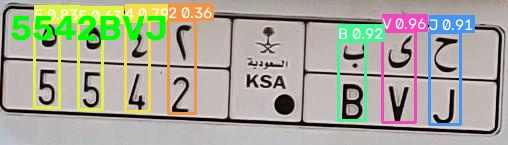
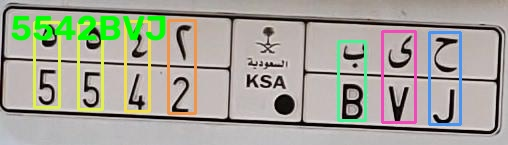
add readme

Changed region(s): [[0.0591, 0.0, 0.4429, 0.1931], [0.6496, 0.0828, 0.9449, 0.3034]]

diff --git a/detector/cli.py b/detector/cli.py
@@ -1,19 +1,16 @@
-"""CLI-точка входа: python -m detector.cli --image path.jpg"""
+"""CLI-точка входа: python plates_detect.py --image path.jpg"""
 import argparse
 import sys
 from pathlib import Path
+from typing import Optional
 
 from .config import DetectorConfig
-from .detector import Detector, DetectorError
+from .detector import Detector
 from .visualize import draw
 
-IMG_EXTS = {".jpg", ".jpeg", ".png", ".bmp", ".webp"}
 
-
-def _resolve_config(explicit: Path | None, default_name: str) -> Path:
+def _resolve_config(explicit: Optional[Path], default_name: str) -> Path:
     if explicit:
-        if not explicit.is_file():
-            raise FileNotFoundError(f"конфиг не найден: {explicit}")
         return explicit
     candidates = [Path.cwd() / default_name, Path(__file__).resolve().parent.parent / default_name]
     for c in candidates:
@@ -22,71 +19,56 @@ def _resolve_config(explicit: Path | None, default_name: str) -> Path:
     raise FileNotFoundError(f"конфиг не найден: {default_name}")
 
 
-def main(argv: list[str] | None = None) -> int:
-    """Возвращает 0 при успехе, >0 при ошибках. Код = число неудачных файлов."""
+def main(argv: Optional[list[str]] = None):
     p = argparse.ArgumentParser(description="CLI-детектор номерных знаков (YOLOv8 ONNX)")
     p.add_argument("--image", type=Path, help="путь к изображению")
     p.add_argument("--dir", type=Path, help="папка с изображениями (батч)")
     p.add_argument("--config", type=Path, default=None, help="путь к config.yaml")
     p.add_argument("--no-show", action="store_true", help="не открывать matplotlib окно")
+    p.add_argument("--quiet", action="store_true", help="только signature, без списка боксов")
     args = p.parse_args(argv)
 
     if not args.image and not args.dir:
         p.error("укажите --image или --dir")
 
-    try:
-        config_path = _resolve_config(args.config, "config.yaml")
-        cfg = DetectorConfig.from_yaml(config_path)
-        if args.no_show:
-            cfg.show = False
-        detector = Detector(cfg)
-    except (FileNotFoundError, ValueError, DetectorError) as e:
-        print(f"[FATAL] {e}", file=sys.stderr)
-        return 2
+    config_path = _resolve_config(args.config, "config.yaml")
+    cfg = DetectorConfig.from_yaml(config_path)
+    if args.no_show:
+        cfg.show = False
+    if args.quiet:
+        cfg.verbose = False
 
-    print(f"модель: {cfg.model}  классов: {len(detector.names)}  imgsz={cfg.imgsz}")
-    print(f"conf={cfg.conf_threshold}  iou={cfg.iou_threshold}  device={cfg.device}")
+    detector = Detector(cfg)
+
+    # Краткий вывод настроек (только если не quiet)
+    if cfg.verbose:
+        print(f"модель: {cfg.model}  классов: {len(detector.names)}  imgsz={cfg.imgsz}")
+        print(f"conf={cfg.conf_threshold}  iou={cfg.iou_threshold}  device={cfg.device}")
 
     images: list[Path] = []
     if args.image:
-        if not args.image.is_file():
-            print(f"[FATAL] файл не найден: {args.image}", file=sys.stderr)
-            return 2
         images = [args.image]
     elif args.dir:
-        if not args.dir.is_dir():
-            print(f"[FATAL] папка не найдена: {args.dir}", file=sys.stderr)
-            return 2
-        images = sorted(p for p in args.dir.iterdir() if p.suffix.lower() in IMG_EXTS)
-        if not images:
-            print(f"[WARN] в {args.dir} нет изображений ({', '.join(sorted(IMG_EXTS))})", file=sys.stderr)
-            return 0
+        images = sorted(p for p in args.dir.iterdir() if p.suffix.lower() in {".jpg", ".jpeg", ".png"})
 
-    errors = 0
     for img in images:
         try:
             result = detector.predict(img)
-        except DetectorError as e:
+        except Exception as e:
             print(f"[ERROR] {img.name}: {e}", file=sys.stderr)
-            errors += 1
             continue
 
-        status = f"signature='{result.signature}'" if result.signature else "(no detection)"
-        print(f"\n[{img.name}] {status}  boxes={len(result.boxes)}")
-        for (x1, y1, x2, y2), label, score in zip(result.boxes, result.labels, result.scores):
-            print(f"  {detector.names[label]:>2}  {score:.3f}  [{x1:.0f},{y1:.0f},{x2:.0f},{y2:.0f}]")
+        # Основной вывод: signature всегда
+        print(f"\n[{img.name}] signature='{result.signature}'  boxes={len(result.boxes)}")
+
+        # Детальный вывод: только если verbose
+        if cfg.verbose:
+            for (x1, y1, x2, y2), label, score in zip(result.boxes, result.labels, result.scores):
+                print(f"  {detector.names[label]:>2}  {score:.3f}  [{x1:.0f},{y1:.0f},{x2:.0f},{y2:.0f}]")
 
         save_path = cfg.output_dir / f"{img.stem}_pred.jpg" if cfg.save else None
-        try:
-            draw(img, result, detector.names, save_path=save_path, show=cfg.show)
-        except DetectorError as e:
-            print(f"[WARN] отрисовка {img.name} не удалась: {e}", file=sys.stderr)
-            # отрисовка — не критична, инференс уже прошёл
-
-    if errors:
-        print(f"\n{errors} из {len(images)} файлов завершились с ошибкой", file=sys.stderr)
-    return errors
+        draw(img, result, detector.names, cfg, save_path=save_path, show=cfg.show)
 
 
 if __name__ == "__main__":
-    sys.exit(main())
+    main()

diff --git a/detector/visualize.py b/detector/visualize.py
@@ -4,11 +4,13 @@ from typing import Optional
 
 import cv2
 import matplotlib.pyplot as plt
-import numpy as np
-
-from .detector import DetectionResult, DetectorError
 
 
+from .config import DetectorConfig
+from .detector import DetectionResult
+
+
+# палитра по классам (HSV-равномерно)
 def _palette(n: int) -> list[tuple[int, int, int]]:
     import colorsys
     return [
@@ -17,42 +19,67 @@ def _palette(n: int) -> list[tuple[int, int, int]]:
     ]
 
 
+def _save_yolo_txt(txt_path: Path, result: DetectionResult):
+    """Сохраняет детекции в формате YOLO: class_id cx cy w h (нормализованные)."""
+    w, h = result.image_size
+    with open(txt_path, "w", encoding="utf-8") as f:
+        for (x1, y1, x2, y2), label in zip(result.boxes, result.labels):
+            cx = ((x1 + x2) / 2) / w
+            cy = ((y1 + y2) / 2) / h
+            bw = (x2 - x1) / w
+            bh = (y2 - y1) / h
+            f.write(f"{label} {cx:.6f} {cy:.6f} {bw:.6f} {bh:.6f}\n")
+
+
 def draw(image_path: Path, result: DetectionResult, names: list[str],
-         save_path: Optional[Path] = None, show: bool = True) -> None:
-    """Отрисовывает результат. При ошибке чтения/сохранения выбрасывает DetectorError."""
+         config: DetectorConfig, save_path: Optional[Path] = None, show: bool = True):
     img_bgr = cv2.imread(str(image_path))
     if img_bgr is None:
-        raise DetectorError(f"не удалось прочитать для отрисовки: {image_path}")
+        raise FileNotFoundError(image_path)
     img_rgb = cv2.cvtColor(img_bgr, cv2.COLOR_BGR2RGB)
 
     colors = _palette(len(names))
-    for (x1, y1, x2, y2), label, score in zip(result.boxes, result.labels, result.scores):
-        x1, y1, x2, y2 = int(x1), int(y1), int(x2), int(y2)
-        color = colors[label % len(colors)]
-        cv2.rectangle(img_rgb, (x1, y1), (x2, y2), color, 2)
-        text = f"{names[label]} {score:.2f}"
-        (tw, th), baseline = cv2.getTextSize(text, cv2.FONT_HERSHEY_SIMPLEX, 0.5, 1)
-        cv2.rectangle(img_rgb, (x1, y1 - th - baseline - 2), (x1 + tw, y1), color, -1)
-        cv2.putText(img_rgb, text, (x1, y1 - baseline - 1),
-                    cv2.FONT_HERSHEY_SIMPLEX, 0.5, (255, 255, 255), 1)
 
-    if result.signature:
-        cv2.putText(img_rgb, result.signature, (10, 40),
-                    cv2.FONT_HERSHEY_SIMPLEX, 1.2, (0, 255, 0), 2)
-    else:
-        cv2.putText(img_rgb, "(no detection)", (10, 40),
-                    cv2.FONT_HERSHEY_SIMPLEX, 1.0, (0, 0, 255), 2)
+    # Рисуем боксы только если show_boxes=True
+    if config.show_boxes:
+        for (x1, y1, x2, y2), label, score in zip(result.boxes, result.labels, result.scores):
+            x1, y1, x2, y2 = int(x1), int(y1), int(x2), int(y2)
+            color = colors[label % len(colors)]
+            cv2.rectangle(img_rgb, (x1, y1), (x2, y2), color, 2)
+
+            # Показываем текст только если show_labels=True И conf >= порога
+            if config.show_labels and score >= config.min_confidence_label:
+                text = f"{names[label]} {score:.2f}"
+                (tw, th), baseline = cv2.getTextSize(text, cv2.FONT_HERSHEY_SIMPLEX, 0.5, 1)
+                cv2.rectangle(img_rgb, (x1, y1 - th - baseline - 2), (x1 + tw, y1), color, -1)
+                cv2.putText(img_rgb, text, (x1, y1 - baseline - 1),
+                            cv2.FONT_HERSHEY_SIMPLEX, 0.5, (255, 255, 255), 1)
+
+    # Показываем подпись номера только если show_signature=True
+    if config.show_signature:
+        if result.signature:
+            cv2.putText(img_rgb, result.signature, (10, 40),
+                        cv2.FONT_HERSHEY_SIMPLEX, 1.2, (0, 255, 0), 2)
+        else:
+            cv2.putText(img_rgb, "(no detection)", (10, 40),
+                        cv2.FONT_HERSHEY_SIMPLEX, 1.0, (0, 0, 255), 2)
 
     if save_path:
-        try:
-            save_path.parent.mkdir(parents=True, exist_ok=True)
-            cv2.imwrite(str(save_path), cv2.cvtColor(img_rgb, cv2.COLOR_RGB2BGR))
-        except Exception as e:
-            raise DetectorError(f"не удалось сохранить {save_path}: {e}") from e
+        save_path.parent.mkdir(parents=True, exist_ok=True)
+        cv2.imwrite(str(save_path), cv2.cvtColor(img_rgb, cv2.COLOR_RGB2BGR))
+
+        # Сохраняем txt рядом с картинкой
+        if config.save_txt:
+            txt_path = save_path.with_suffix(".txt")
+            _save_yolo_txt(txt_path, result)
+
     if show:
         plt.figure(figsize=(10, 8))
         plt.imshow(img_rgb)
-        plt.title(f"signature: {result.signature or '(empty)'}  boxes: {len(result.boxes)}")
+        title = f"signature: {result.signature or '(empty)'}"
+        if config.verbose:
+            title += f"  boxes: {len(result.boxes)}"
+        plt.title(title)
         plt.axis("off")
         plt.tight_layout()
         plt.show()

diff --git a/detector/detector.py b/detector/detector.py
@@ -5,7 +5,6 @@
 """
 from dataclasses import dataclass
 from pathlib import Path
-from typing import Optional
 
 import cv2
 import numpy as np
@@ -33,7 +32,7 @@ class DetectorError(RuntimeError):
 
 
 class Detector:
-    """Минималистичный детектор на базе YOLOv8 ONNX."""
+    """ детектор на базе YOLOv8 ONNX"""
 
     def __init__(self, config: DetectorConfig):
         self.cfg = config
@@ -60,7 +59,7 @@ class Detector:
             raise DetectorError(f"модель {config.model} не имеет входных тензоров")
         self.input_name = inputs[0].name
 
-        # проверяем, что вход — 4D тензор NCHW (стандарт YOLOv8)
+        # проверяем, что вход — 4D тензор  (стандарт YOLOv8)
         shape = inputs[0].shape
         if not (isinstance(shape, list) and len(shape) == 4):
             raise DetectorError(f"ожидается 4D вход (NCHW), получил shape={shape}")
@@ -74,7 +73,7 @@ class Detector:
 
         img_bgr = cv2.imread(str(image_path))
         if img_bgr is None:
-            raise DetectorError(f"не удалось прочитать изображение (битый файл?): {image_path}")
+            raise DetectorError(f"не удалось прочитать изображение : {image_path}")
 
         h, w = img_bgr.shape[:2]
         if h == 0 or w == 0:

diff --git a/detector/config.py b/detector/config.py
@@ -10,13 +10,20 @@ class DetectorConfig:
     model: Path
     classes: Path
     imgsz: int = 640
-    conf_threshold: float = 0.5
+    conf_threshold: float = 0.25
     iou_threshold: float = 0.45
     device: str = "cpu"
+    # Вывод в терминал
+    verbose: bool = True
+    # Визуализация
     output_dir: Path = Path("./predictions")
     show: bool = True
     save: bool = True
     save_txt: bool = True
+    show_boxes: bool = True
+    show_labels: bool = True
+    show_signature: bool = True
+    min_confidence_label: float = 0.5
 
     @classmethod
     def from_yaml(cls, path: Path) -> "DetectorConfig":

diff --git a/plates_detect.py b/plates_detect.py
@@ -1,4 +1,3 @@
-#!/usr/bin/env python3
 """CLI-детектор номерных знаков.
 
 Примеры:

diff --git a/README.md b/README.md
@@ -1,0 +1,57 @@
+
+
+# Детекция символов номерных знаков
+
+Проект детектирует отдельные символы номерных знаков с помощью YOLOv8 ONNX и собирает распознанную строку слева направо.
+
+
+
+## Обзор архитектуры
+
+```text
+Изображение
+  -> letterbox до 640 px
+  -> YOLOv8 ONNX (models/best.onnx)
+  -> confidence-фильтрация и NMS
+  -> сортировка боксов по горизонтали
+  -> строка номера + визуализация
+```
+
+- plates_detect.py — CLI-точка входа.
+- detector — ONNX-инференс, постпроцессинг, конфигурация и отрисовка.
+- config.yaml — модель, пороги, размер входа, устройство и параметры вывода.
+- dataset_prepare.py, dataset_prepare — очистка датасета, аудит разметки и формирование сплитов.
+- _dataset — данные в формате YOLO.
+- best.onnx — модель с 27 классами символов.
+- predictions — сохранённые результаты инференса.
+
+## Запуск
+
+```bash
+python3 -m venv .venv
+source .venv/bin/activate
+pip install -r requirements.txt
+
+python3 plates_detect.py --image _dataset/test/example.jpeg --no-show
+python3 plates_detect.py --dir _dataset/test --no-show --quiet
+```
+
+Настройки задаются в config.yaml.
+
+## Подготовка датасета
+
+Конвейер: дедупликация → аудит файлов → проверка боксов → упаковка для CVAT → перераспределение сплитов.
+
+```bash
+python3 dataset_prepare.py hash-find --root ./_dataset
+python3 dataset_prepare.py files-find --root ./_dataset
+python3 dataset_prepare.py boxes-stats --root ./_dataset
+python3 dataset_prepare.py boxes-check --root ./_dataset
+python3 dataset_prepare.py cvat-pack --root ./_dataset
+python3 dataset_prepare.py split-plan --root ./_dataset
+```
+
+Отчеты и промежуточные артефакты сохраняются в audit_out.
+
+Подробный разбор датасета: ./dataset_prepare/dataset_report.md
+Обучение и графики https://colab.research.google.com/drive/1b0kl3Cqx0RCN_BOG7MouCJ1pYsL0u-Ea?usp=sharing
